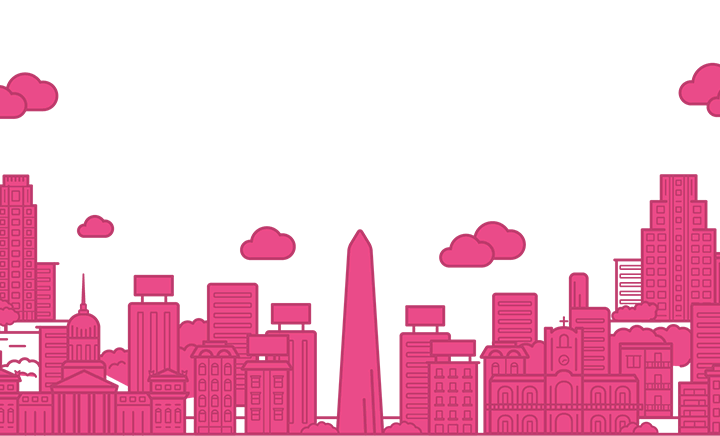
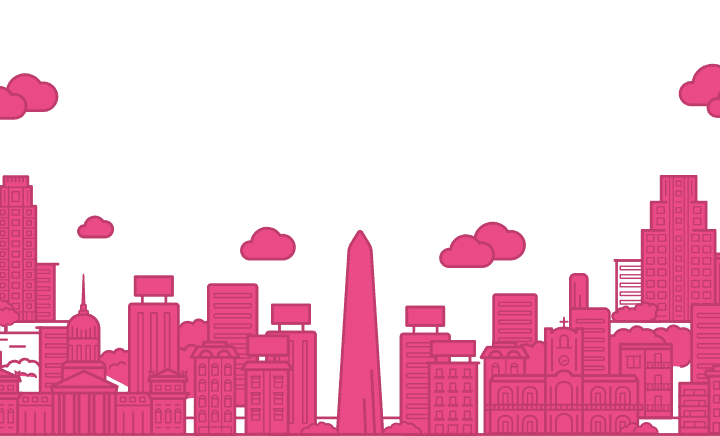
compressed hero images + placeholder for meetup api

diff --git a/css/style.css b/css/style.css
@@ -1,2 +1,1 @@
-@import url(normalize.css);@import url(animate.css);@font-face{font-family:'FontAwesome';src:url("../fonts/fontawesome-webfont.eot?v=4.0.3");src:url("../fonts/fontawesome-webfont.eot?#iefix&v=4.0.3") format("embedded-opentype"),url("../fonts/fontawesome-webfont.woff?v=4.0.3") format("woff"),url("../fonts/fontawesome-webfont.ttf?v=4.0.3") format("truetype"),url("../fonts/fontawesome-webfont.svg?v=4.0.3#fontawesomeregular") format("svg");font-weight:normal;font-style:normal}.col-1-12{width:80px;padding:0 10px}.col-2-12{width:160px;padding:0 10px}.col-3-12{width:240px;padding:0 10px}.col-4-12{width:320px;padding:0 10px}.col-5-12{width:400px;padding:0 10px}.col-6-12{width:480px;padding:0 10px}.col-7-12{width:560px;padding:0 10px}.col-8-12{width:640px;padding:0 10px}.col-9-12{width:720px;padding:0 10px}.col-10-12{width:800px;padding:0 10px}.col-11-12{width:880px;padding:0 10px}.col-12-12{width:960px;padding:0 10px}*{box-sizing:border-box;-moz-box-sizing:border-box}html,body{height:100%}body{font-family:"Montserrat", sans-serif;font-size:16px;line-height:26px;-webkit-font-smoothing:antialiased;color:#5b5b5f}#hero{min-height:100%;max-height:1000px;color:#fff;position:relative;overflow:hidden;display:flex;display:-webkit-flex;-moz-display:flex;flex-direction:row;flex-wrap:nowrap;justify-content:center;align-content:center;align-items:center;-webkit-flex-direction:row;-webkit-flex-wrap:nowrap;-webkit-justify-content:center;-webkit-align-content:center;-webkit-align-items:center;-moz-flex-direction:row;-moz-flex-wrap:nowrap;-moz-justify-content:center;-moz-align-content:center;-moz-align-items:center}#hero article{position:relative;width:100%;max-width:500px;margin:0 auto;text-transform:uppercase;text-align:center;font-size:.75em;padding:0 2em;z-index:10}#hero article p{letter-spacing:3px;font-weight:700;margin-bottom:1.75em;line-height:1.3em}#hero h1{display:block;margin:0 auto;width:100%;max-width:400px;padding-top:43%;background:url(../images/logo.png) center no-repeat;background-size:100%;text-indent:-9999px}#hero-bg{position:absolute;top:0;bottom:0;min-width:1280px;width:110%;left:50%;transform:translateX(-50%);background:url(../images/hero.png) no-repeat bottom center #ea4c88;background-size:100%;z-index:-1}#rsvp{color:#3e4749;background:#eee165;font-weight:700;font-size:1.5em;text-decoration:none;padding:1em 3em;border-radius:2px;display:inline-block;-webkit-transition:background ease-in-out .15s}#rsvp:hover{background:#f3ea93}#rsvp:active{background:#e9d837}@media (max-width: 1280px){#hero-bg{background-image:url(../images/hero.png)}}@media (max-width: 720px){#hero-bg{min-width:720px;background-image:url(../images/hero-720.png)}}
-/*# sourceMappingURL=style.css.map */
+@import url(normalize.css);@import url(animate.css);@font-face{font-family:'FontAwesome';src:url("../fonts/fontawesome-webfont.eot?v=4.0.3");src:url("../fonts/fontawesome-webfont.eot?#iefix&v=4.0.3") format("embedded-opentype"),url("../fonts/fontawesome-webfont.woff?v=4.0.3") format("woff"),url("../fonts/fontawesome-webfont.ttf?v=4.0.3") format("truetype"),url("../fonts/fontawesome-webfont.svg?v=4.0.3#fontawesomeregular") format("svg");font-weight:normal;font-style:normal}.col-1-12{width:80px;padding:0 10px}.col-2-12{width:160px;padding:0 10px}.col-3-12{width:240px;padding:0 10px}.col-4-12{width:320px;padding:0 10px}.col-5-12{width:400px;padding:0 10px}.col-6-12{width:480px;padding:0 10px}.col-7-12{width:560px;padding:0 10px}.col-8-12{width:640px;padding:0 10px}.col-9-12{width:720px;padding:0 10px}.col-10-12{width:800px;padding:0 10px}.col-11-12{width:880px;padding:0 10px}.col-12-12{width:960px;padding:0 10px}*{box-sizing:border-box;-moz-box-sizing:border-box}html,body{height:100%}body{font-family:"Montserrat", sans-serif;font-size:16px;line-height:26px;-webkit-font-smoothing:antialiased;color:#5b5b5f}#hero{min-height:100%;max-height:1000px;color:#fff;position:relative;overflow:hidden;display:flex;display:-webkit-flex;-moz-display:flex;flex-direction:row;flex-wrap:nowrap;justify-content:center;align-content:center;align-items:center;-webkit-flex-direction:row;-webkit-flex-wrap:nowrap;-webkit-justify-content:center;-webkit-align-content:center;-webkit-align-items:center;-moz-flex-direction:row;-moz-flex-wrap:nowrap;-moz-justify-content:center;-moz-align-content:center;-moz-align-items:center}#hero article{position:relative;width:100%;max-width:500px;margin:0 auto;text-transform:uppercase;text-align:center;font-size:.75em;padding:0 2em;z-index:10}#hero article p{letter-spacing:3px;font-weight:700;margin-bottom:1.75em;line-height:1.3em}#hero h1{display:block;margin:0 auto;width:100%;max-width:400px;padding-top:43%;background:url(../images/logo.png) center no-repeat;background-size:100%;text-indent:-9999px}#hero-bg{position:absolute;top:0;bottom:0;min-width:1280px;width:110%;left:50%;transform:translateX(-50%);background:url(../images/hero.png) no-repeat bottom center #ea4c88;background-size:100%;z-index:-1}#rsvp{color:#3e4749;background:#eee165;font-weight:700;font-size:1.5em;text-decoration:none;padding:1em 3em;border-radius:2px;display:inline-block;-webkit-transition:background ease-in-out .15s}#rsvp:hover{background:#f3ea93}#rsvp:active{background:#e9d837}@media (max-width: 1280px){#hero-bg{background-image:url(../images/hero-1280.png)}}@media (max-width: 720px){#hero-bg{min-width:720px;background-image:url(../images/hero-720.png)}}

diff --git a/js/site.js b/js/site.js
@@ -62,7 +62,6 @@ function updateBackground(offsetFromLeft, smooth) {
 
 }
 
-
 $(document).ready(function() {
   $herobg = $('#hero-bg');
 	$('#hero').mousemove(function(e){
@@ -96,4 +95,17 @@ $(document).ready(function() {
 
     updateBackgroundTweened( offset );
   });
+
+  /*window.loadRSVP = function(response) {
+    var count = response.meta.total_count;
+    console.log(count);
+
+    var assistants = response.results;
+    assistants.forEach(function(rsvp){
+      $("#attendees ul").append("<li>" + rsvp.member.name + "</li>");
+    });
+  }
+
+  $.getScript("http://api.meetup.com/ew/rsvps?event_id=1188322&order=time&photo-host=public&offset=0&format=json&callback=loadRSVP&page=100&sig_id=32218732&sig=60a0d321b3b456c0e5affeeae447dee2e5d80e24");
+*/
 });

diff --git a/index.html b/index.html
@@ -19,6 +19,10 @@
       <a href="http://www.meetup.com/dribbble/Buenos-Aires-AR/1188322/" target="blank" id="rsvp">Sumate</a>
     </article>
   </section>
+
+  <section id="attendees">
+    <ul></ul>
+  </section>
     
   <script type="text/javascript" src="http://ajax.googleapis.com/ajax/libs/jquery/1.10.2/jquery.min.js"></script>
   <script type="text/javascript" src="js/site.js"></script>

diff --git a/css/_responsive.scss b/css/_responsive.scss
@@ -1,6 +1,6 @@
 @media (max-width: 1280px) {
  #hero-bg {
-  background-image: url(../images/hero.png);
+  background-image: url(../images/hero-1280.png);
  }
 }
 @media (max-width: 720px) {
